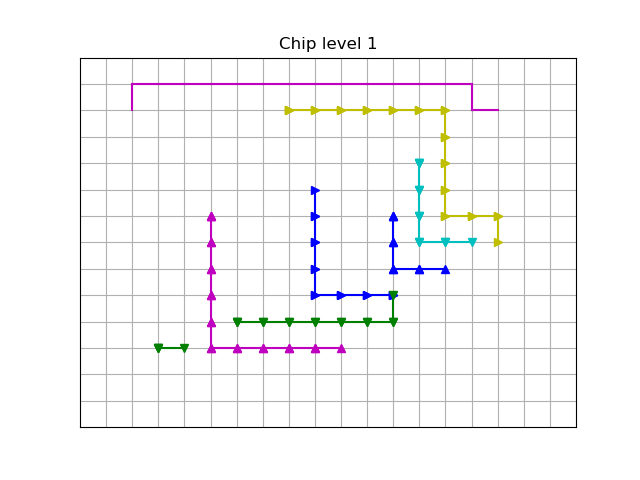
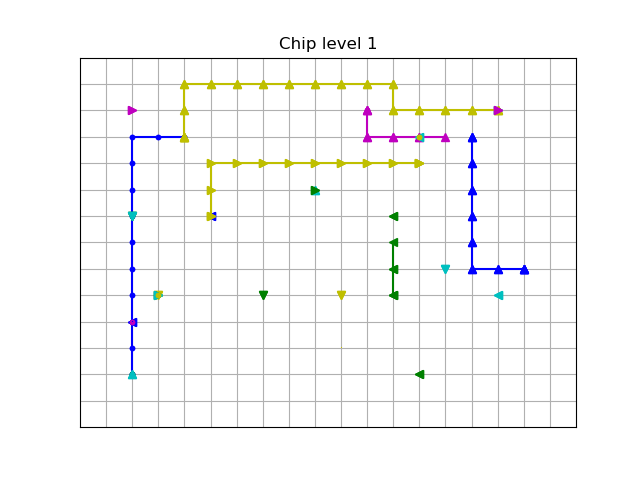
altered plot

diff --git a/code/algorithms/a_star.py b/code/algorithms/a_star.py
@@ -46,10 +46,14 @@ def a_star(chip, net, random_layer = 0):
 
 	prev = goal
 	shortest_path.append(goal)
+	for i in range(0, start_layer + 1):
+		shortest_path.append(chip.circuit[net[1]] + (i,))
 	while came_from[prev] is not None:
 		shortest_path.append(came_from[prev])
 		prev = came_from[prev]
 	chip.walls += shortest_path
+	for i in range(start_layer, 0, -1):
+		shortest_path.append(chip.circuit[net[0]] + (i,))
 
 	# store path for this net in new Path object and append to chip object
 	chip.paths.append(classChip.Path(net, shortest_path))
